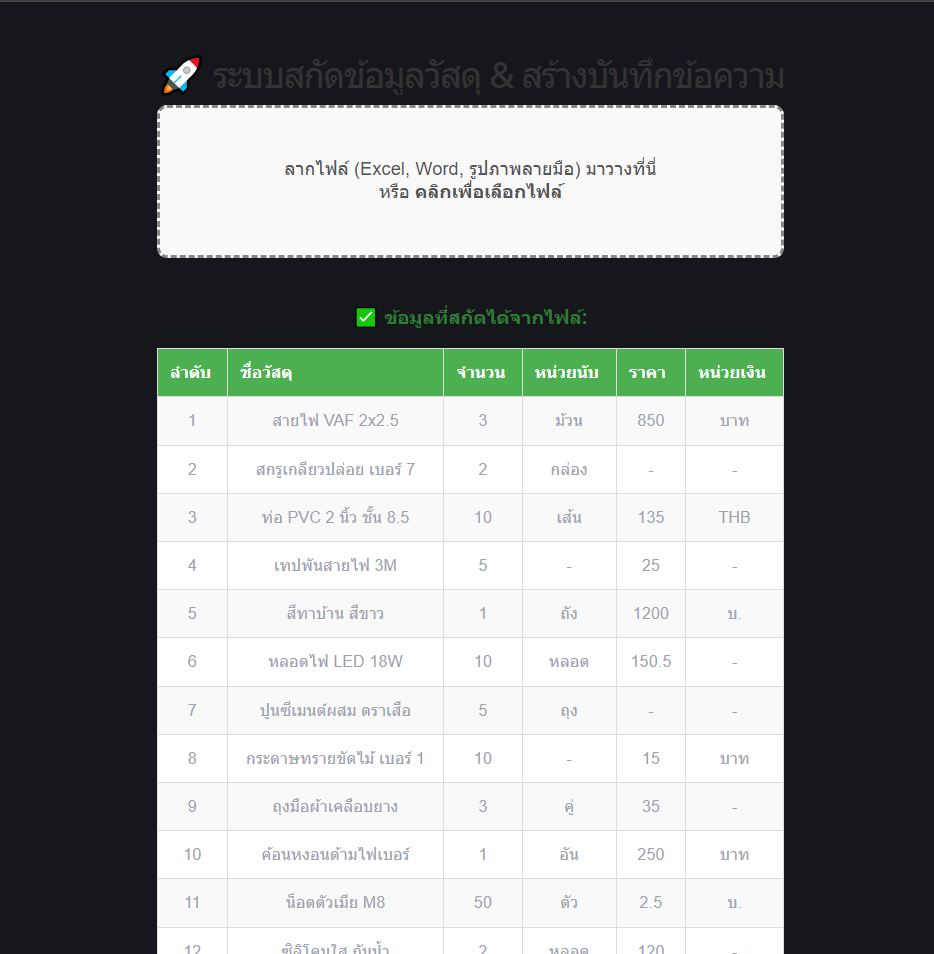
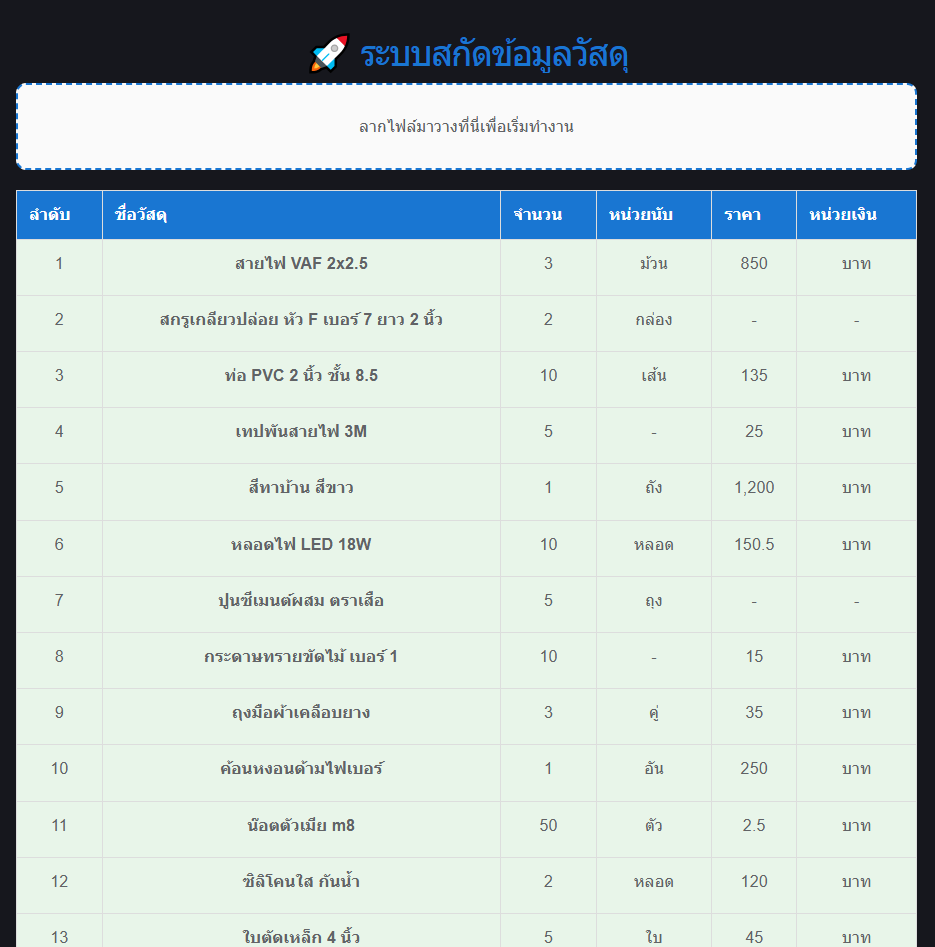
fix button and add preview Picture

diff --git a/frontend/src/App.jsx b/frontend/src/App.jsx
@@ -1,7 +1,7 @@
 import React, { useState, useCallback } from 'react';
 import { useDropzone } from 'react-dropzone';
 import axios from 'axios';
-import { PDFViewer } from '@react-pdf/renderer';
+import { PDFViewer, PDFDownloadLink } from '@react-pdf/renderer';
 import FormPDF from './FormPDF'; 
 import './App.css'; 
 
@@ -115,11 +115,31 @@ function App() {
               ))}
             </tbody>
           </table>
+          <PDFDownloadLink
+            document={<FormPDF data={data} />}
+            fileName="บันทึกข้อความ_จัดซื้อวัสดุ.pdf"
+            style={{
+              textDecoration: 'none',
+              padding: '12px 25px',
+              color: '#fff',
+              backgroundColor: '#2e7d32',
+              border: 'none',
+              borderRadius: '5px',
+              fontSize: '18px',
+              fontWeight: 'bold',
+              cursor: 'pointer',
+              boxShadow: '0 4px 6px rgba(0,0,0,0.1)',
+              display: 'inline-block', 
+              marginTop: '40px'    
+            }}
+          >
+            {({ loading }) => (loading ? '⏳ กำลังเตรียมไฟล์...' : '📥 ดาวน์โหลดไฟล์ PDF (Export)')}
+          </PDFDownloadLink>
         </div>
       )}
 
       {data.length > 0 && !loading && (
-        <div style={{ height: '800px', border: '2px solid #555' }}>
+        <div style={{ height: '1200px', border: '2px solid #555', marginBottom:"100px" }}>
           <PDFViewer width="100%" height="100%">
             <FormPDF data={data} />
           </PDFViewer>
